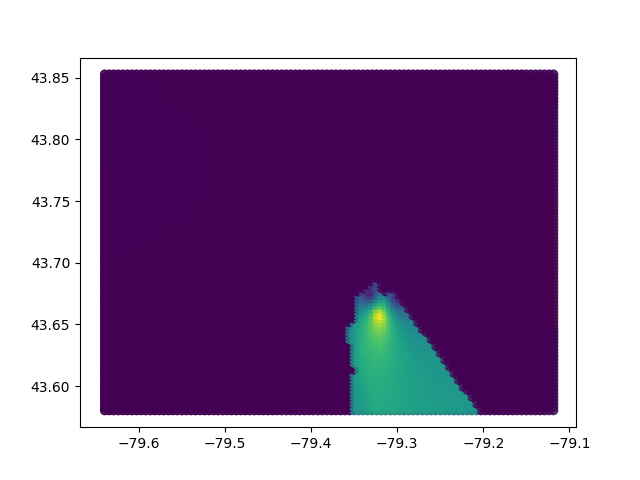
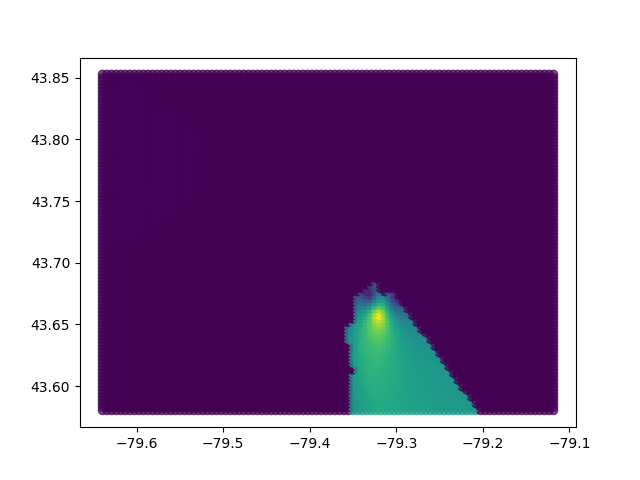
feat: update charts, update script for risk level

diff --git a/process.py b/process.py
@@ -447,10 +447,18 @@ if __name__ == '__main__':
         finalise_fig(ax_water_level(), "danger-and-managed")
 
         styles = ['x-','o-','*-', 'd-']
+        
         means_pd[labels_for(danger1, danger2, danger3, danger4)]\
             .plot(style=styles, ms=2, lw=1, title="Alerted devices over time").set_ylabel("devices receiving signals (devices)")
+        
         finalise_fig(ax_water_level(), "danger-evolution")
-
+        
+        ## Risk oracle vs risk evaluated 
+        ax = means_pd[['max-risk', 'risk-level[max]']].plot()
+        ax.set_ylabel("risk level")
+        ax.legend(["Oracle", "Our solution"])
+        finalise_fig(ax, "risk-oracle")
+        
 def riskMapPlot(riskMap, stations, render):
     print(riskMap['time'])
     filteredPosition = [element for element in stations['position'] if element[0] > 43.6]
@@ -478,14 +486,14 @@ def renderAll():
             open('data/firestation/positions-seed-0.0', 'r') as fireStationFile:
         riskMap = json.load(riskmapFile)
         fireStationMap = json.load(fireStationFile)
-        riskAndFirestation = zip(riskMap, fireStationMap)
-        camera = Camera(plt.figure())
-        def storeInVideo(time):
-            camera.snap()
-        for (riskSnapshot, fireStationSnapshot) in riskAndFirestation:
-            riskMapPlot(riskSnapshot, fireStationSnapshot, storeInVideo)
-        anim = camera.animate(blit=True)
-        anim.save('charts/riskmap/risks-video.mp4')
+        #riskAndFirestation = zip(riskMap, fireStationMap)
+        #camera = Camera(plt.figure())
+        #def storeInVideo(time):
+        #    camera.snap()
+        #for (riskSnapshot, fireStationSnapshot) in riskAndFirestation:
+        #    riskMapPlot(riskSnapshot, fireStationSnapshot, storeInVideo)
+        #anim = camera.animate(blit=True)
+        #anim.save('charts/riskmap/risks-video.mp4')
         for (riskSnapshot, fireStationSnapshot) in zip(riskMap, fireStationMap):
             riskMapPlot(riskSnapshot, fireStationSnapshot, storeInFile)
 
